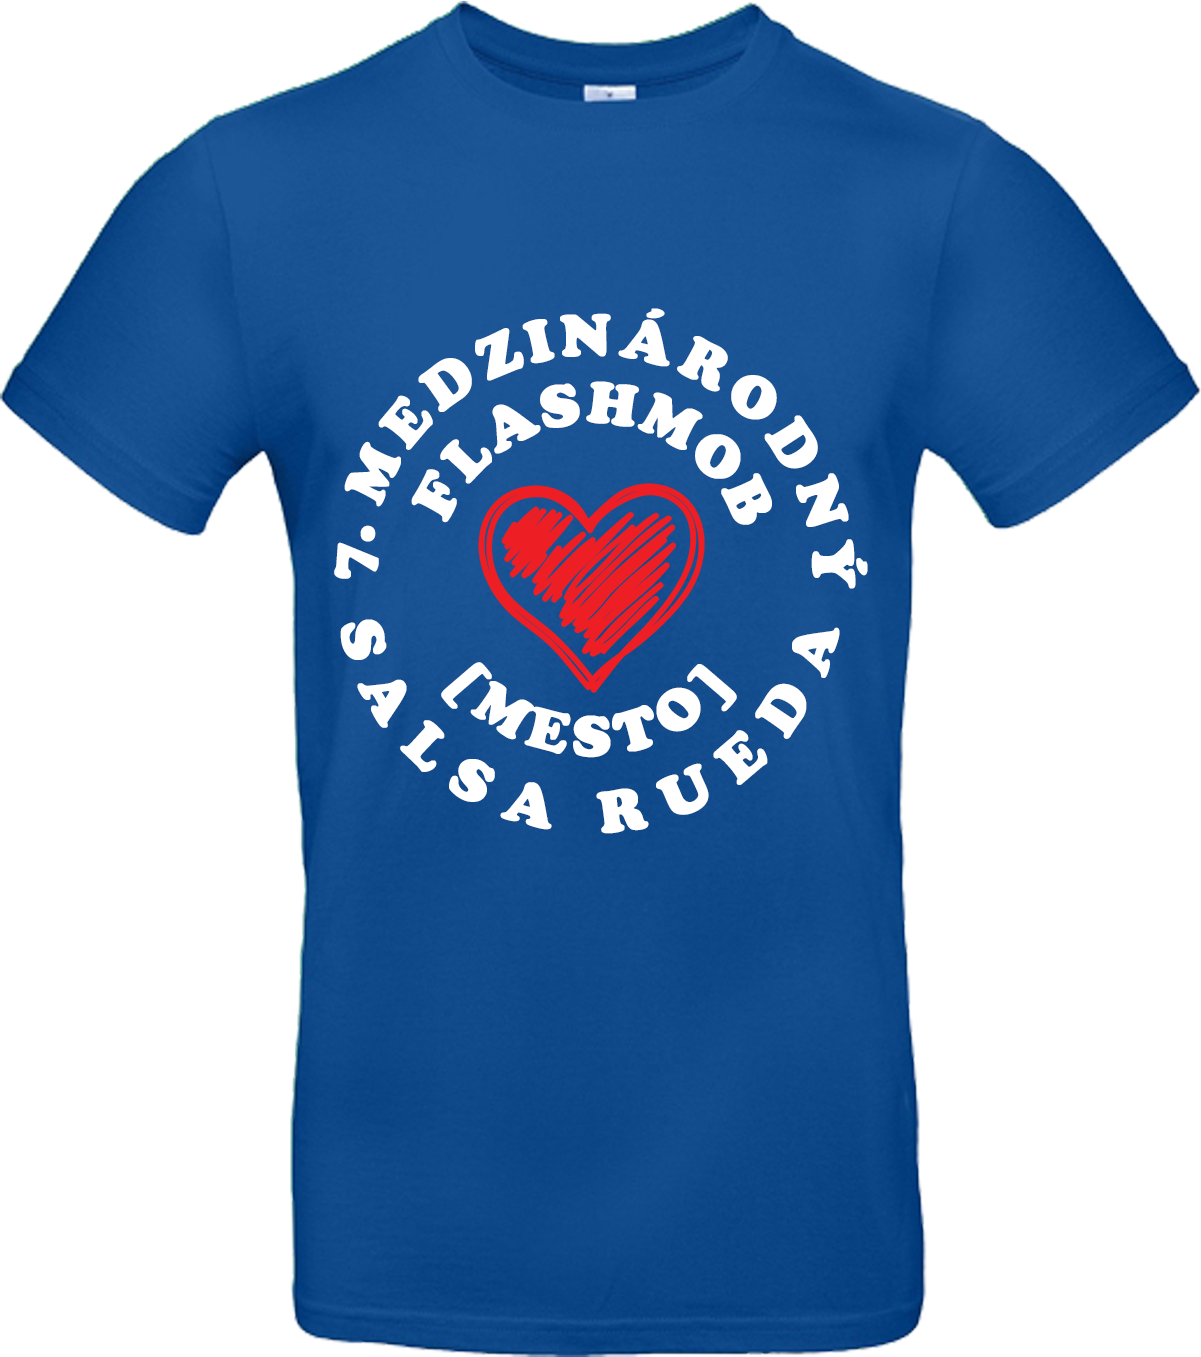
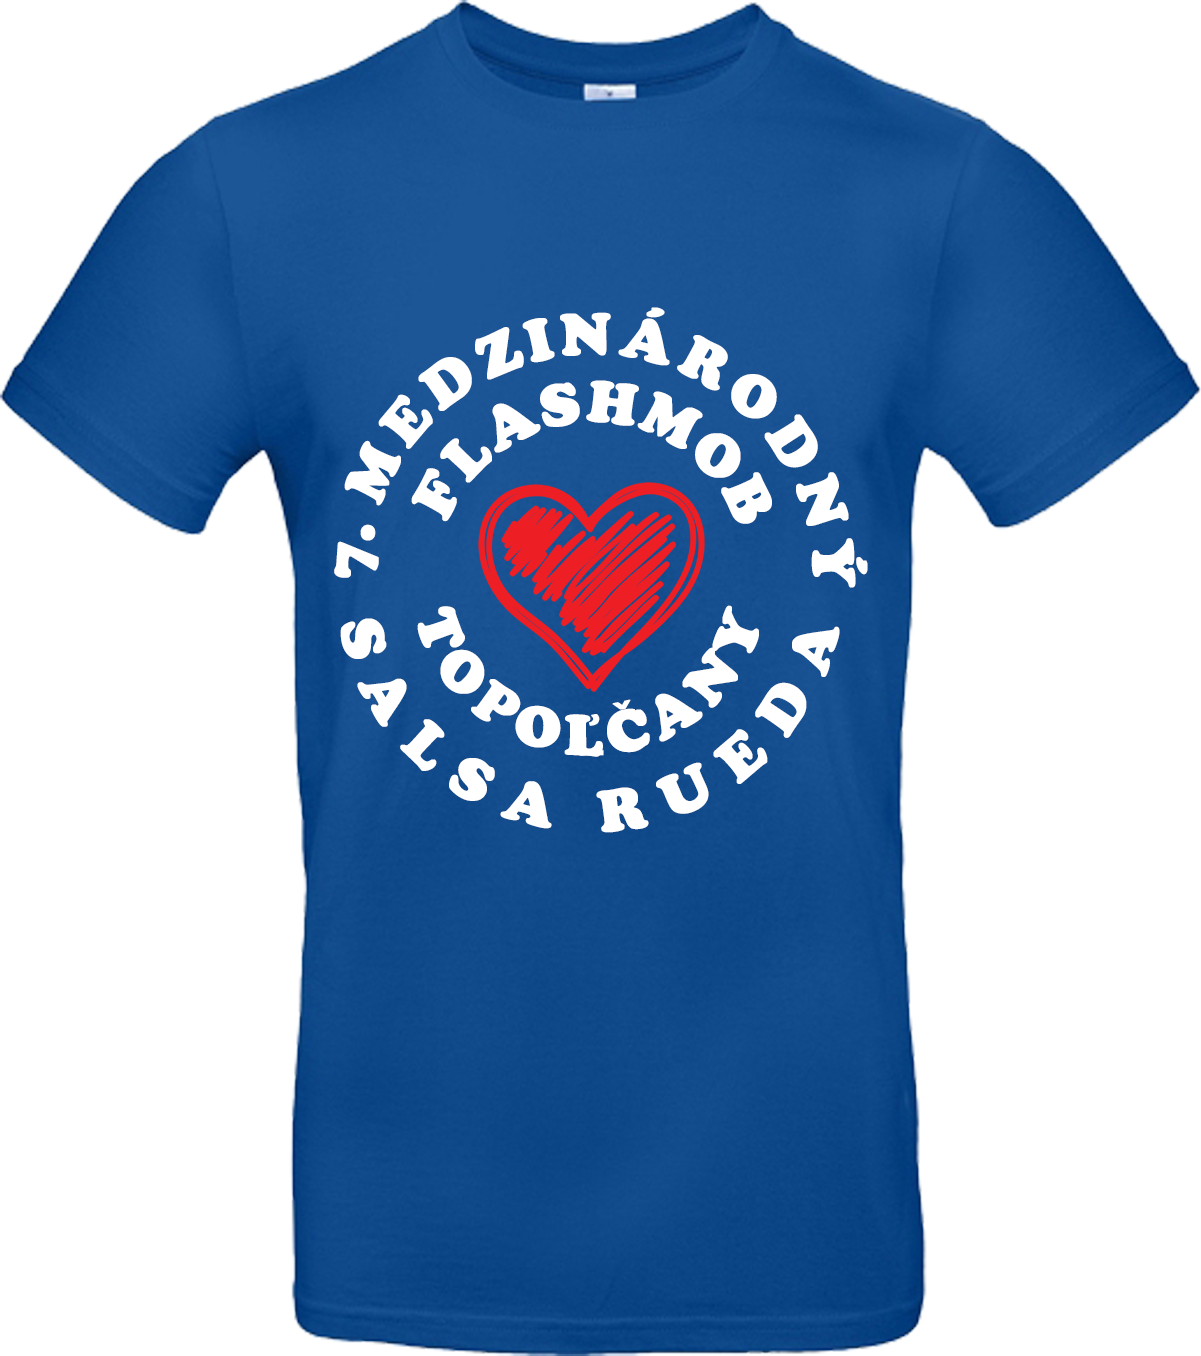
v5.13.0: Replaced intf tshirt images.

diff --git a/flashmob-organizer-profile.php b/flashmob-organizer-profile.php
@@ -6,7 +6,7 @@
  * Short Description: Creates flashmob shortcodes, forms and maps
  * Author: charliecek
  * Author URI: http://charliecek.eu/
- * Version: 5.12.2
+ * Version: 5.13.0
  * Requires at least: 4.8
  * Tested up to: 5.3
  * Requires PHP: 5.6
@@ -22,7 +22,7 @@ use Endroid\QrCode\QrCode;
 
 class FLORP {
 
-  private $strVersion = '5.12.2';
+  private $strVersion = '5.13.0';
   private $strSuperAdminMail = 'charliecek@gmail.com';
   private $iMainBlogID = 1;
   private $iFlashmobBlogID = 6;
